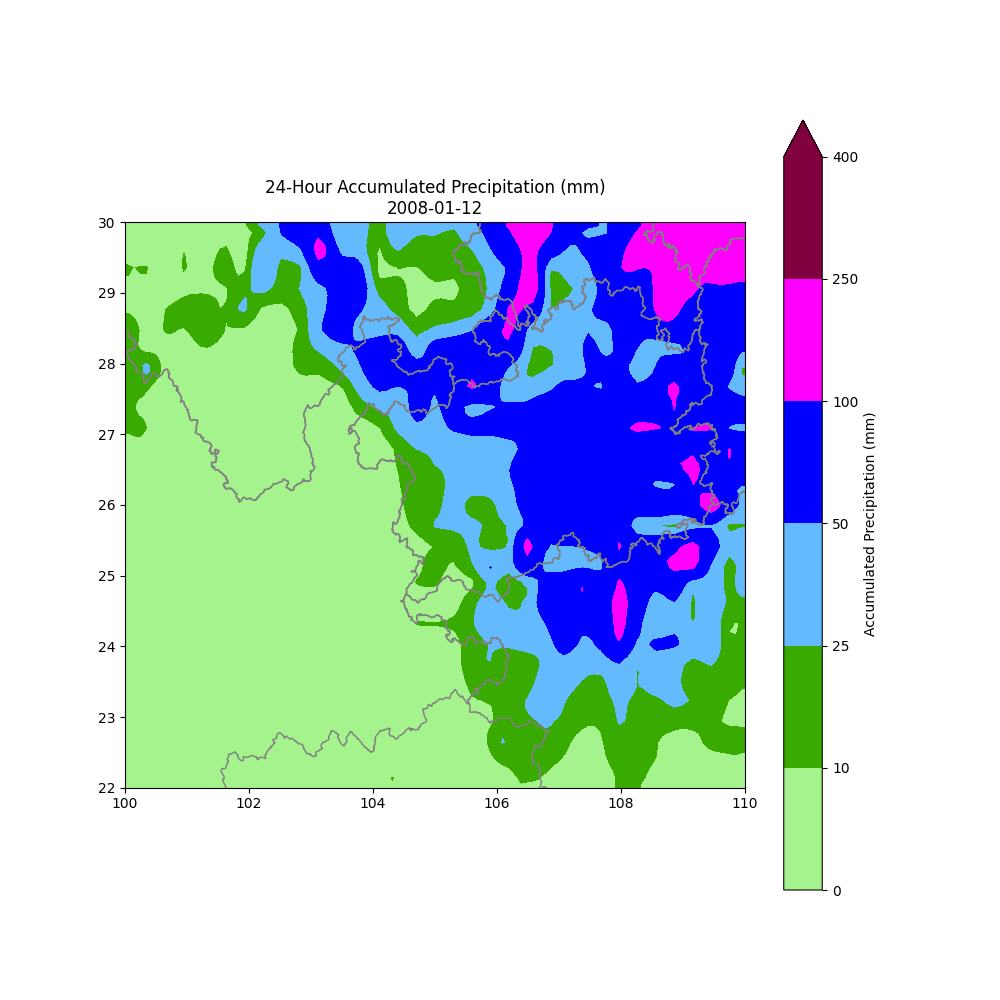
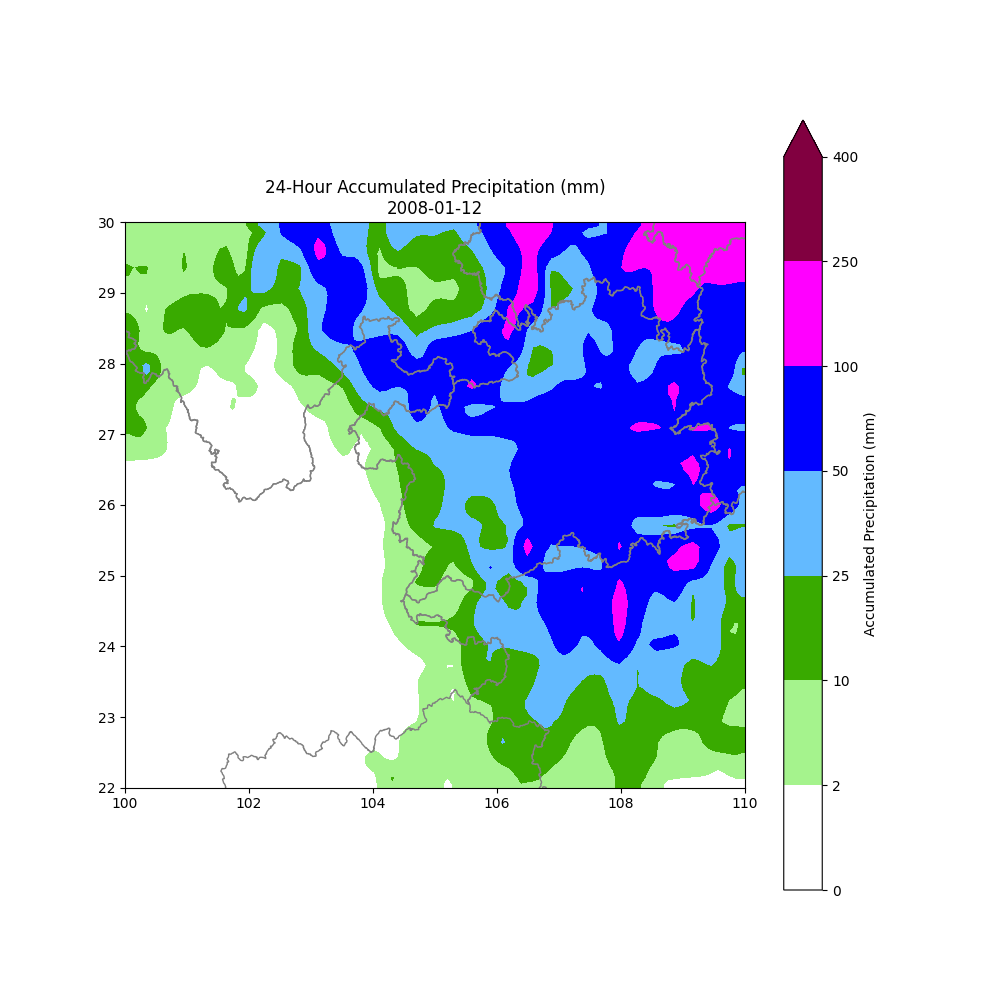
更新图片

diff --git a/Project/降水图/降水2.0.py b/Project/降水图/降水2.0.py
@@ -38,8 +38,8 @@ accumulated_precipitation = accumulated_precipitation.where(
 )
 
 # 定义颜色
-colors = ["#A5F38D", "#39AA00", "#63BAFF", "#0000FE", "#FF00FF", "#810040"]
-levels = [0, 10, 25, 50, 100, 250, 400]
+colors = ["#FFFFFF","#A5F38D", "#39AA00", "#63BAFF", "#0000FE", "#FF00FF", "#810040"]
+levels = [0, 2, 10, 25, 50, 100, 250, 400]
 cmap = ListedColormap(colors)
 norm = BoundaryNorm(levels, ncolors=cmap.N, clip=True)
 
